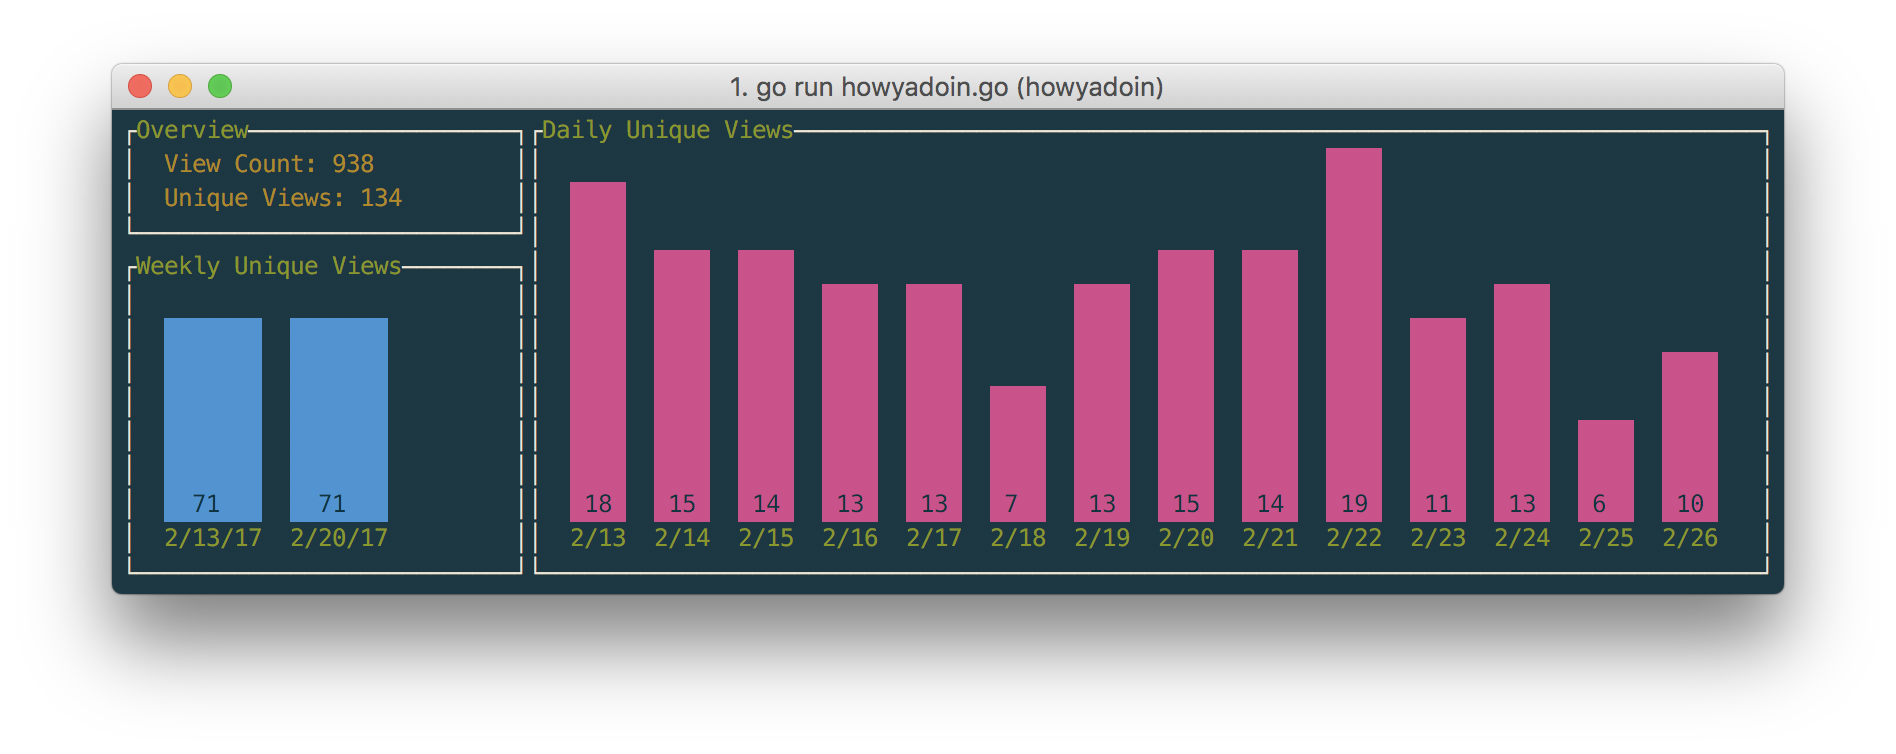
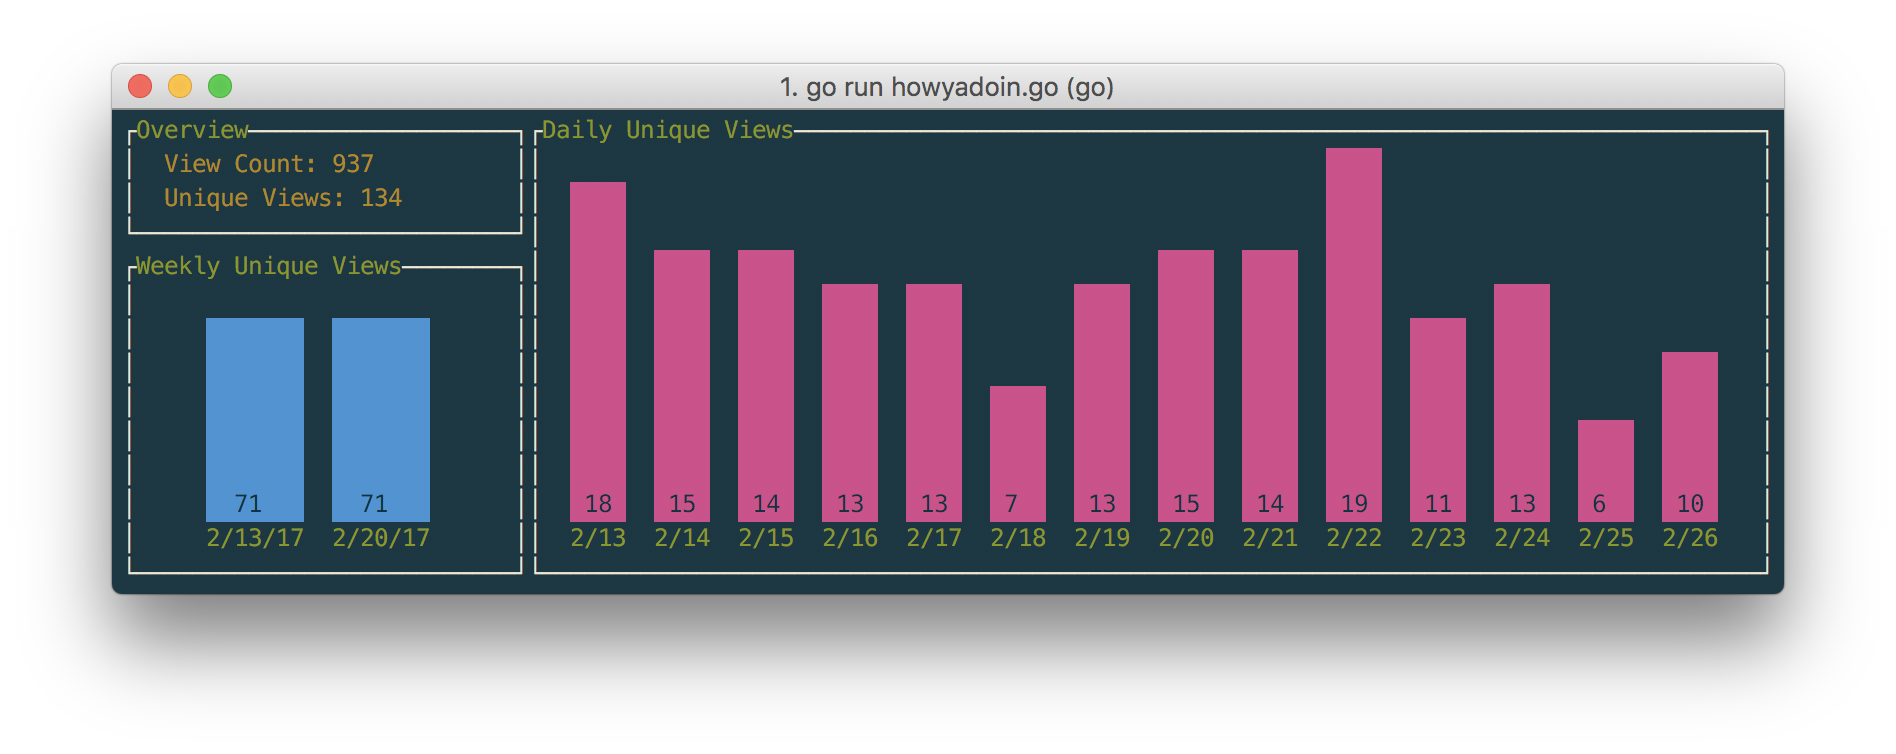
small tweak

Changed region(s): [[0.0622, 0.4271, 0.2489, 0.7321], [0.4045, 0.0915, 0.6224, 0.1525]]

diff --git a/howyadoin.go b/howyadoin.go
@@ -94,7 +94,7 @@ func main() {
 	weekWidget.TextColor = termui.ColorGreen
 	weekWidget.NumColor = termui.ColorBlack
 	weekWidget.PaddingTop = 1
-	weekWidget.PaddingLeft = 2
+	weekWidget.PaddingLeft = 5
 	// Daily View Widget
 	dayWidget := termui.NewBarChart()
 	dayWidget.BorderLabel = "Daily Unique Views"
